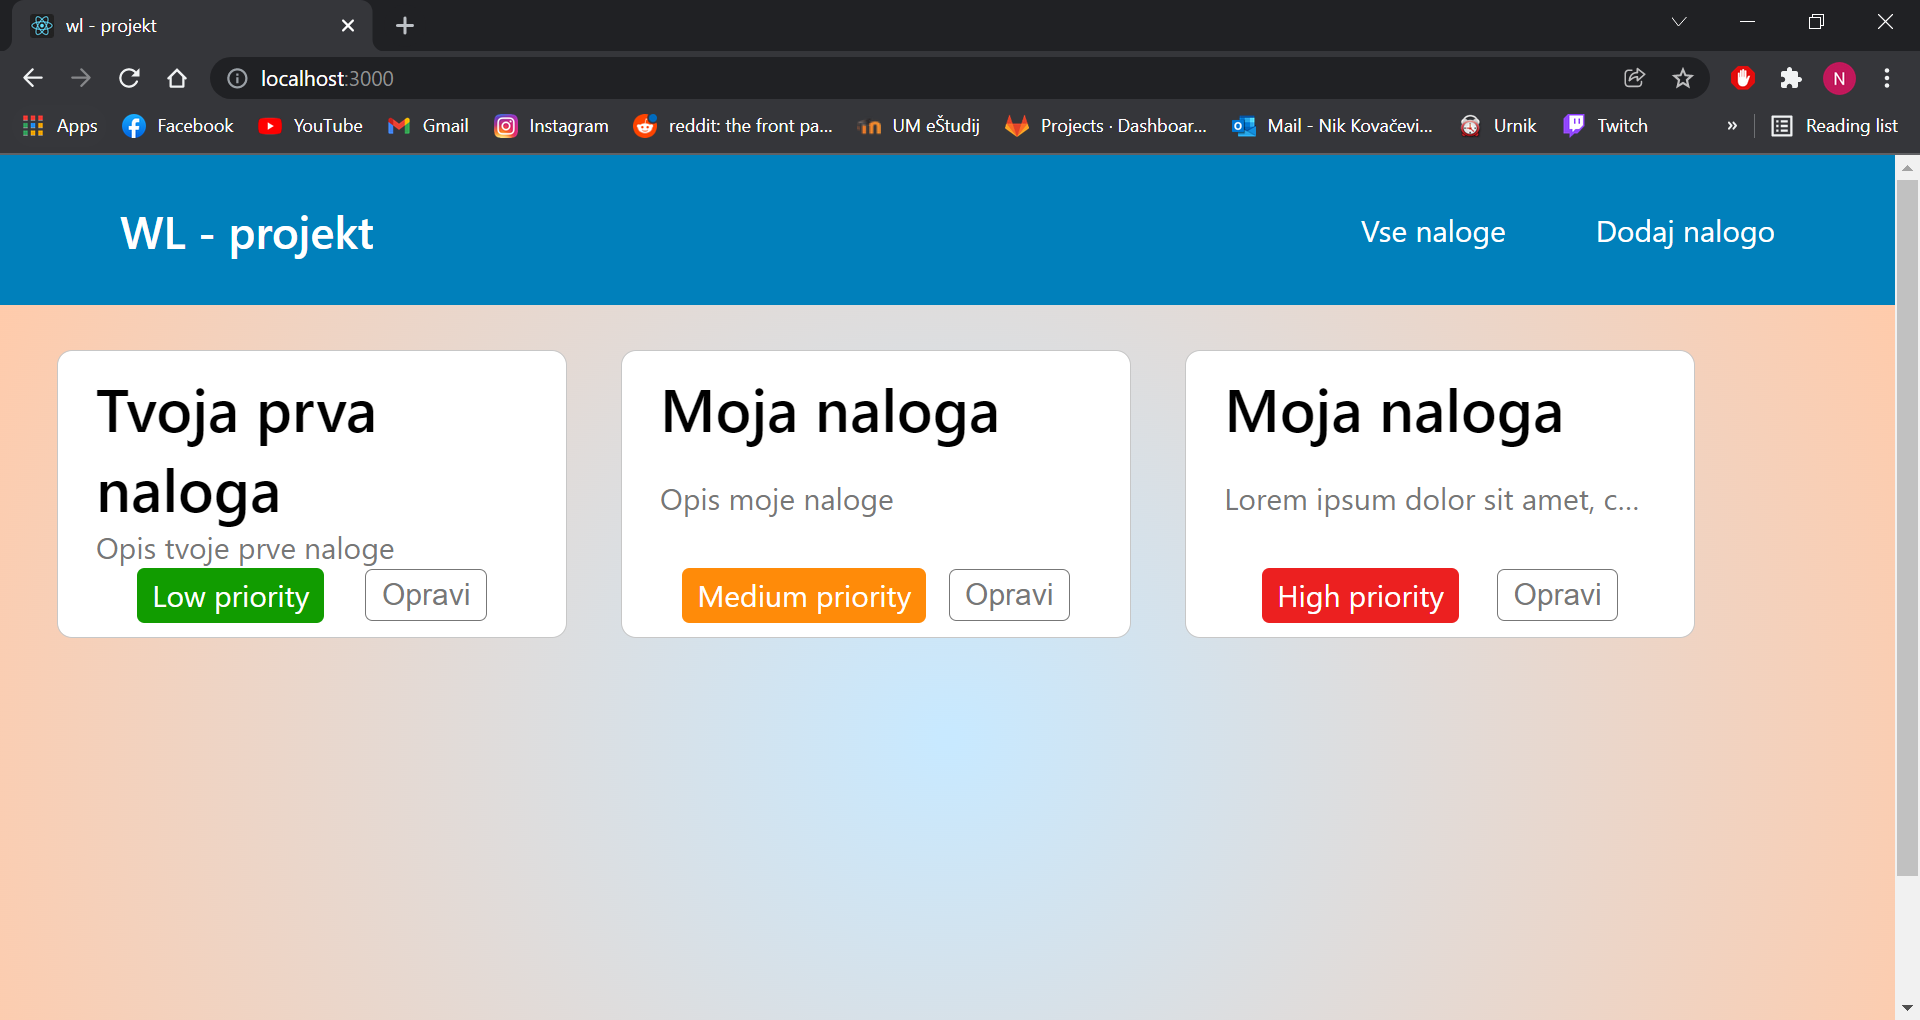
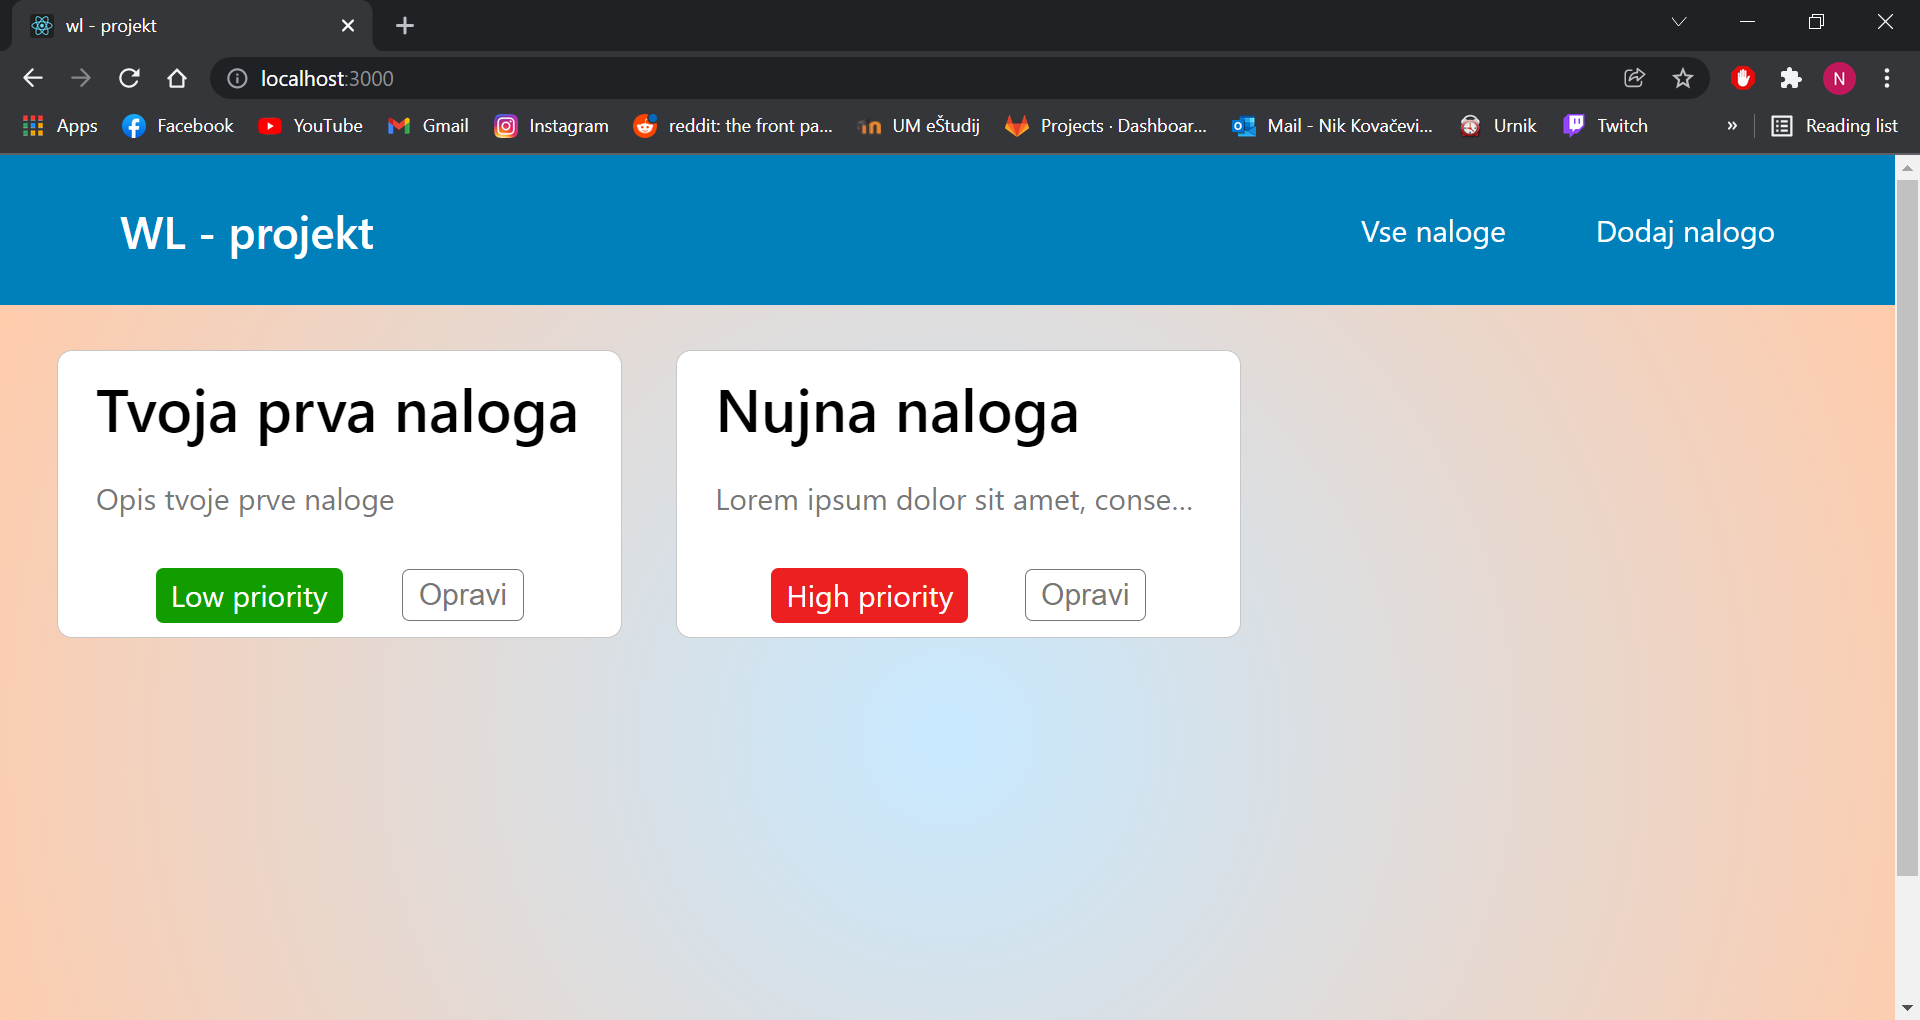
Menjan screenshot

Changed region(s): [[0.0312, 0.3343, 0.9062, 0.6382]]

diff --git a/frontend/wl-frontend/src/App.css b/frontend/wl-frontend/src/App.css
@@ -60,7 +60,7 @@ li {
 
 .todowrapper {
   height: 170px;
-  width: 26%;
+  width: 29%;
   display: flex;
   flex-direction: column;
   justify-content: space-between;
